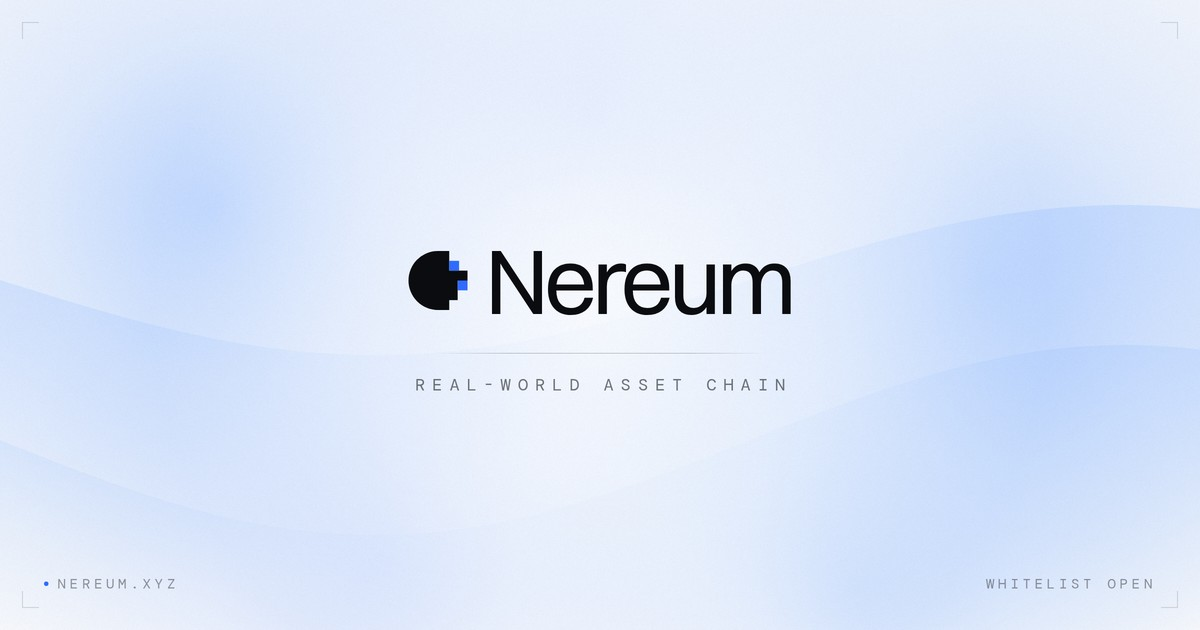
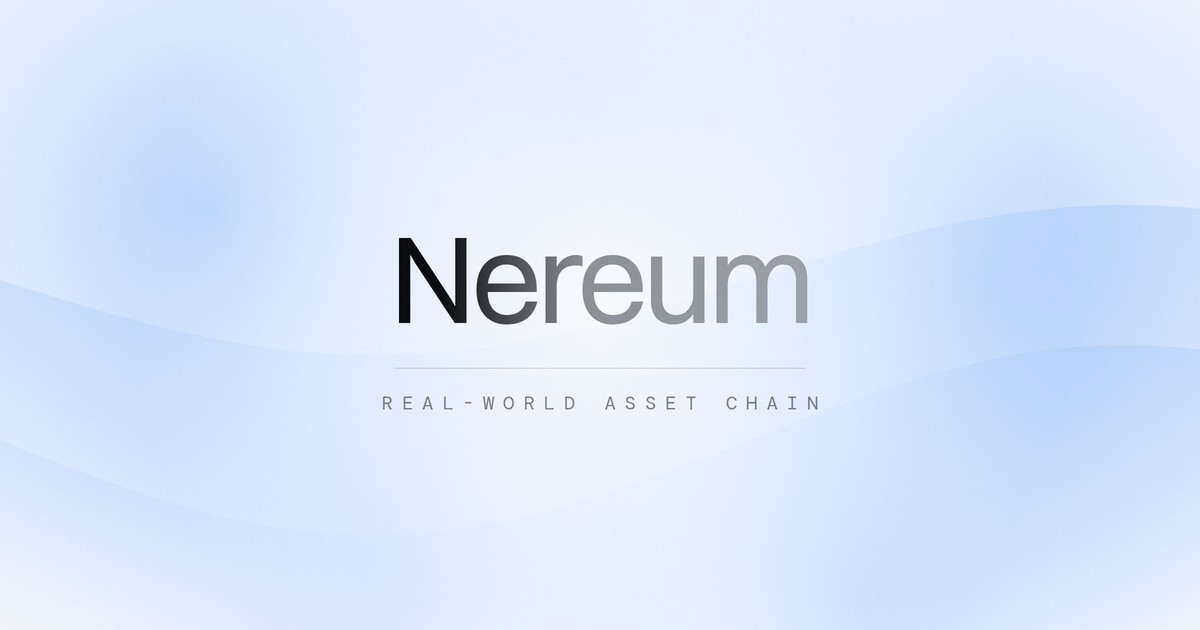
Update the link preview
New og.jpg: the wordmark alone on the gradient, without the corner
brackets or the footer labels the previous one carried.

The share descriptions now say what a visitor can do rather than what
the chain is, and mention that the whitelist is open. The meta
description search engines read is left as it was.

Claude-Session: https://claude.ai/code/session_01LJT6Q3uWtj4pZqCrqcq3WD

diff --git a/index.html b/index.html
@@ -36,7 +36,7 @@
 <meta property="og:locale" content="en_US">
 <meta property="og:url" content="https://nereum.xyz/">
 <meta property="og:title" content="Nereum — a blockchain for real-world assets">
-<meta property="og:description" content="Nereum is a purpose-built blockchain for tokenizing real-world assets.">
+<meta property="og:description" content="Issue, move and settle real-world assets on a chain built for them. Whitelist open.">
 <meta property="og:image" content="https://nereum.xyz/og.jpg">
 <meta property="og:image:secure_url" content="https://nereum.xyz/og.jpg">
 <meta property="og:image:type" content="image/jpeg">
@@ -45,7 +45,7 @@
 <meta property="og:image:alt" content="Nereum — real-world asset chain">
 <meta name="twitter:card" content="summary_large_image">
 <meta name="twitter:title" content="Nereum — a blockchain for real-world assets">
-<meta name="twitter:description" content="Nereum is a purpose-built blockchain for tokenizing real-world assets.">
+<meta name="twitter:description" content="Issue, move and settle real-world assets on a chain built for them. Whitelist open.">
 <meta name="twitter:image" content="https://nereum.xyz/og.jpg">
 <meta name="twitter:image:alt" content="Nereum — real-world asset chain">
 <link rel="stylesheet" href="assets/fonts.css">
